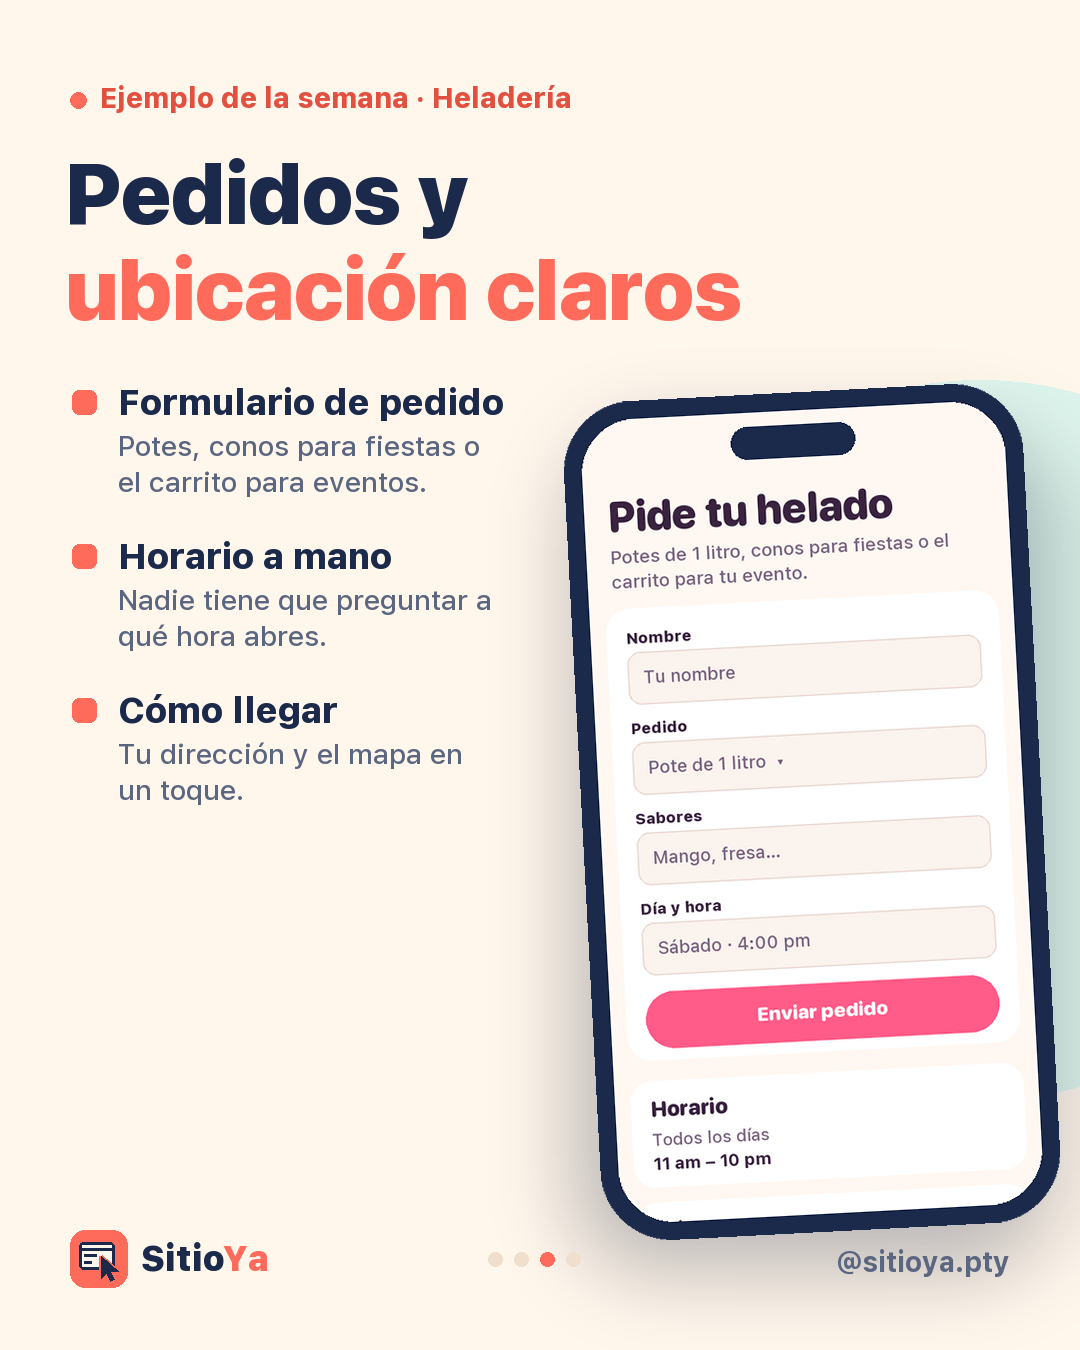
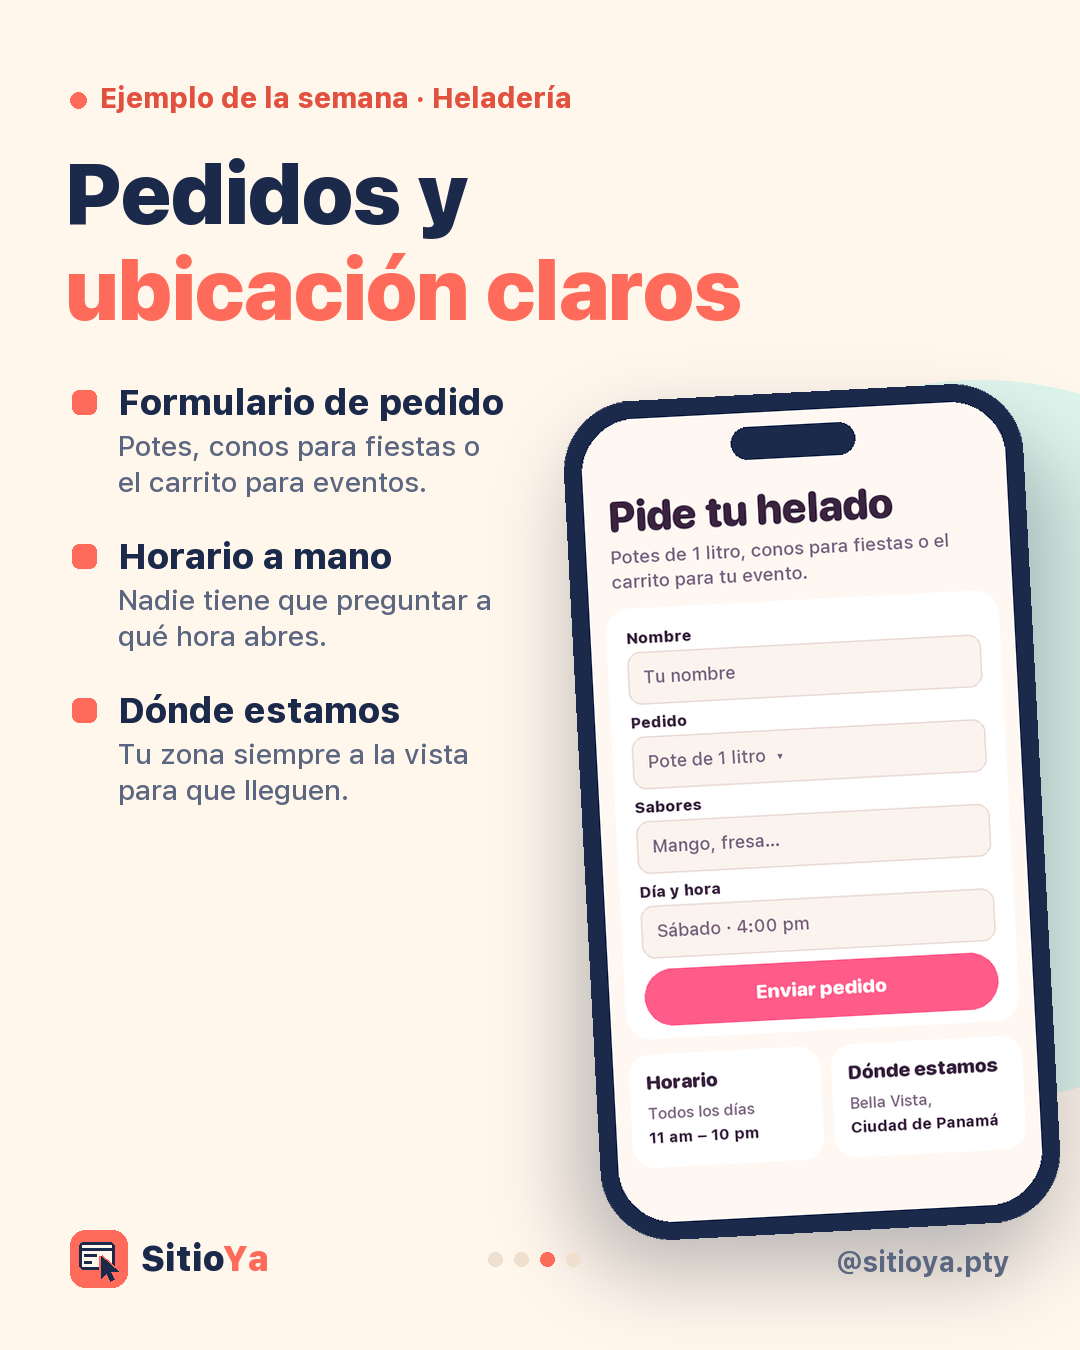
[Claude] Codex: slide 3 con horario y ubicación completos, requisitos del script en LEEME

Changed region(s): [[0.5806, 0.5289, 0.9472, 0.8711], [0.1222, 0.4978, 0.4278, 0.5911]]

diff --git a/tools/redes_heladeria.py b/tools/redes_heladeria.py
@@ -230,26 +230,27 @@ def pantalla_pedido(w, h):
     y = parrafo(d, (34, 178), 'Potes de 1 litro, conos para fiestas o el carrito para tu evento.', fuente(26, 500), H_SOFT,
                 w - 68, 1.35)
     y += 20
-    d.rounded_rectangle((22, y, w - 22, y + 640), 34, fill=BLANCO)
+    d.rounded_rectangle((22, y, w - 22, y + 610), 34, fill=BLANCO)
     fy = y + 28
     etiquetas = [('Nombre', 'Tu nombre'), ('Pedido', 'Pote de 1 litro  ▾'), ('Sabores', 'Mango, fresa…'), ('Día y hora', 'Sábado · 4:00 pm')]
     for et, val in etiquetas:
         d.text((50, fy), et, font=fuente(22, 800), fill=H_INK)
         d.rounded_rectangle((50, fy + 34, w - 50, fy + 34 + 74), 18, fill='#FBF3EE', outline='#EADBD5', width=2)
         d.text((72, fy + 54), val, font=fuente(25, 500), fill=H_SOFT)
-        fy += 128
+        fy += 120
     fb = fuente(28, 900, True)
     t = 'Enviar pedido'
     d.rounded_rectangle((50, fy + 4, w - 50, fy + 84), 40, fill=H_ROSA)
     d.text(((w - texto_ancho(d, t, fb)) / 2, fy + 25), t, font=fb, fill=BLANCO)
-    y = y + 670
-    # horario y ubicación
-    for titulo, linea1, linea2 in (('Horario', 'Todos los días', '11 am – 10 pm'), ('Dónde estamos', 'Bella Vista,', 'Ciudad de Panamá')):
-        d.rounded_rectangle((22, y, w - 22, y + 150), 30, fill=BLANCO)
-        d.text((50, y + 22), titulo, font=fuente(30, 900, True), fill=H_INK)
-        d.text((50, y + 68), linea1, font=fuente(24, 500), fill=H_SOFT)
-        d.text((50, y + 102), linea2, font=fuente(24, 700), fill=H_INK)
-        y += 172
+    y = y + 632
+    # horario y ubicación, lado a lado
+    cw = (w - 44 - 16) // 2
+    for i, (titulo, linea1, linea2) in enumerate((('Horario', 'Todos los días', '11 am – 10 pm'), ('Dónde estamos', 'Bella Vista,', 'Ciudad de Panamá'))):
+        x = 22 + i * (cw + 16)
+        d.rounded_rectangle((x, y, x + cw, y + 160), 30, fill=BLANCO)
+        d.text((x + 24, y + 22), titulo, font=fuente(28, 900, True), fill=H_INK)
+        d.text((x + 24, y + 70), linea1, font=fuente(22, 500), fill=H_SOFT)
+        d.text((x + 24, y + 104), linea2, font=fuente(22, 700), fill=H_INK)
     return im
 
 
@@ -392,7 +393,7 @@ def slide3():
     y = 380
     for t, s in (('Formulario de pedido', 'Potes, conos para fiestas o el carrito para eventos.'),
                  ('Horario a mano', 'Nadie tiene que preguntar a qué hora abres.'),
-                 ('Cómo llegar', 'Tu dirección y el mapa en un toque.')):
+                 ('Dónde estamos', 'Tu zona siempre a la vista para que lleguen.')):
         d.rounded_rectangle((72, y + 10, 96, y + 34), 7, fill=CORAL)
         d.text((118, y), t, font=fuente(36, 800), fill=NAVY)
         y = parrafo(d, (118, y + 48), s, fuente(28, 500), SOFT, 380, 1.3) + 34

diff --git a/redes/ejemplo-heladeria/LEEME.md b/redes/ejemplo-heladeria/LEEME.md
@@ -1,11 +1,11 @@
 # Ejemplo de la semana: Heladería (miércoles)
 
-Para @sitioya.pty. Las imágenes salen de `tools/redes_heladeria.py` (correr `python3 tools/redes_heladeria.py`).
+Para @sitioya.pty. Las imágenes salen de `tools/redes_heladeria.py` (correr `python3 tools/redes_heladeria.py`). Necesita Pillow (`pip install pillow`) y una Mac: usa las letras del sistema SF Pro (`/System/Library/Fonts/SFNS.ttf` y `SFNSRounded.ttf`).
 
 ## Carrusel (4 slides, 1080x1350)
 1. `heladeria-1-portada.png`: Ejemplo de la semana, Heladería
 2. `heladeria-2-sabores.png`: sabores con foto y precio (dice "precios de ejemplo")
-3. `heladeria-3-pedidos.png`: pedidos, horario y cómo llegar
+3. `heladeria-3-pedidos.png`: pedidos, horario y dónde estamos
 4. `heladeria-4-cierre.png`: Así podría quedar la página de tu negocio, comenta PÁGINA
 
 Caption:
